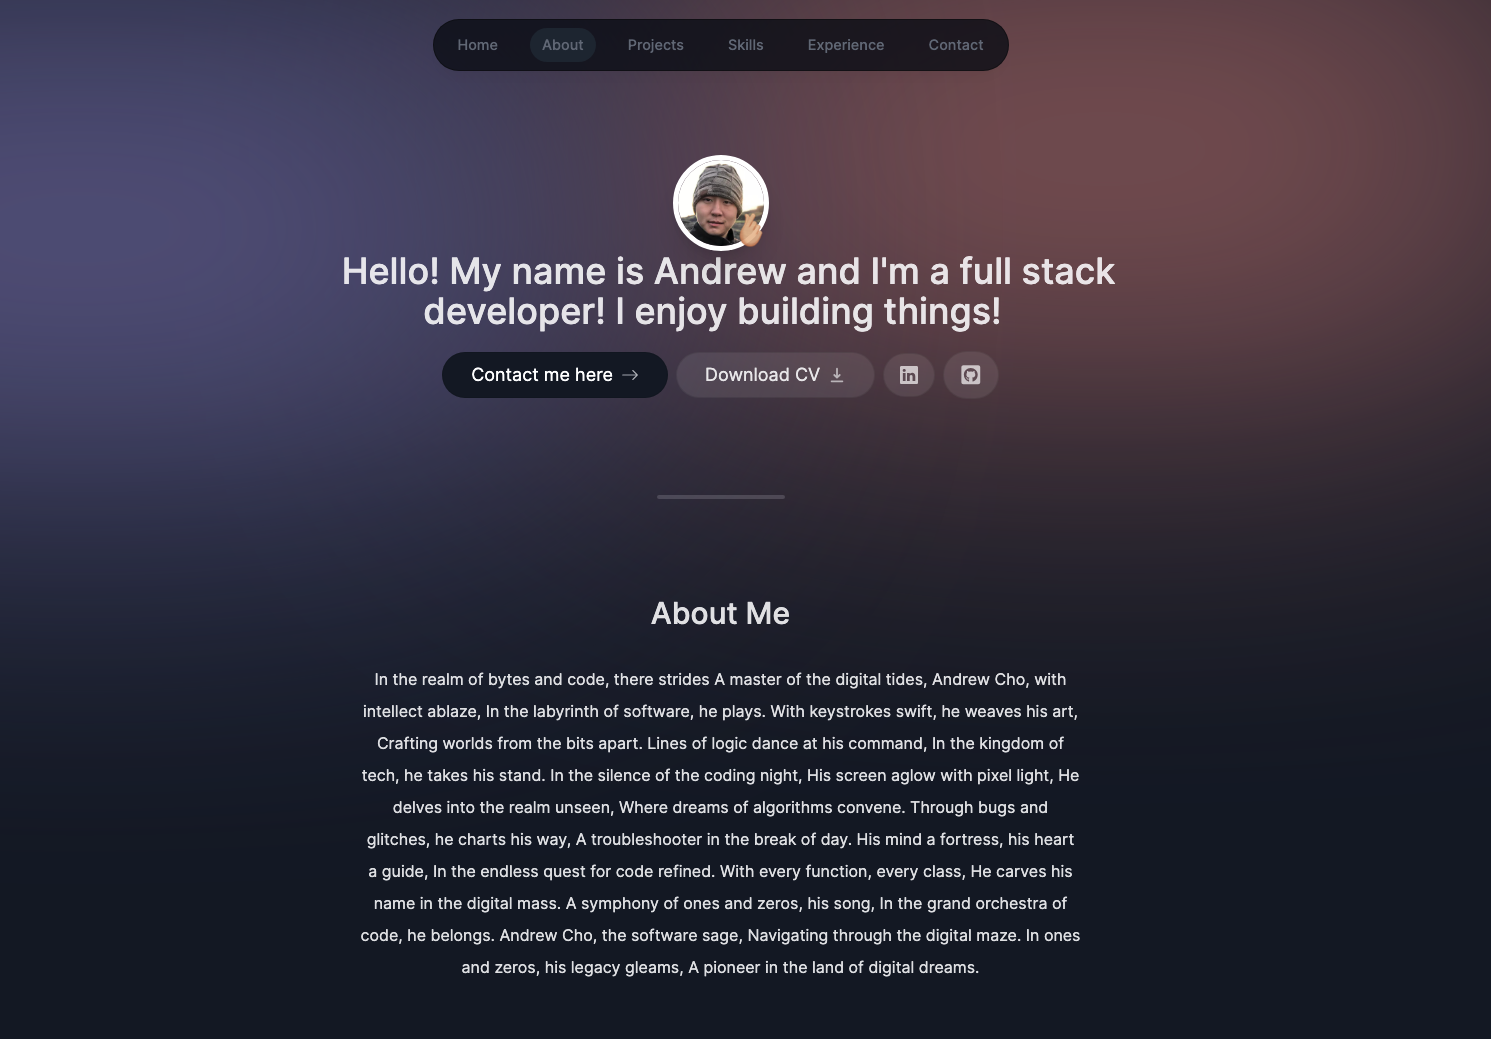
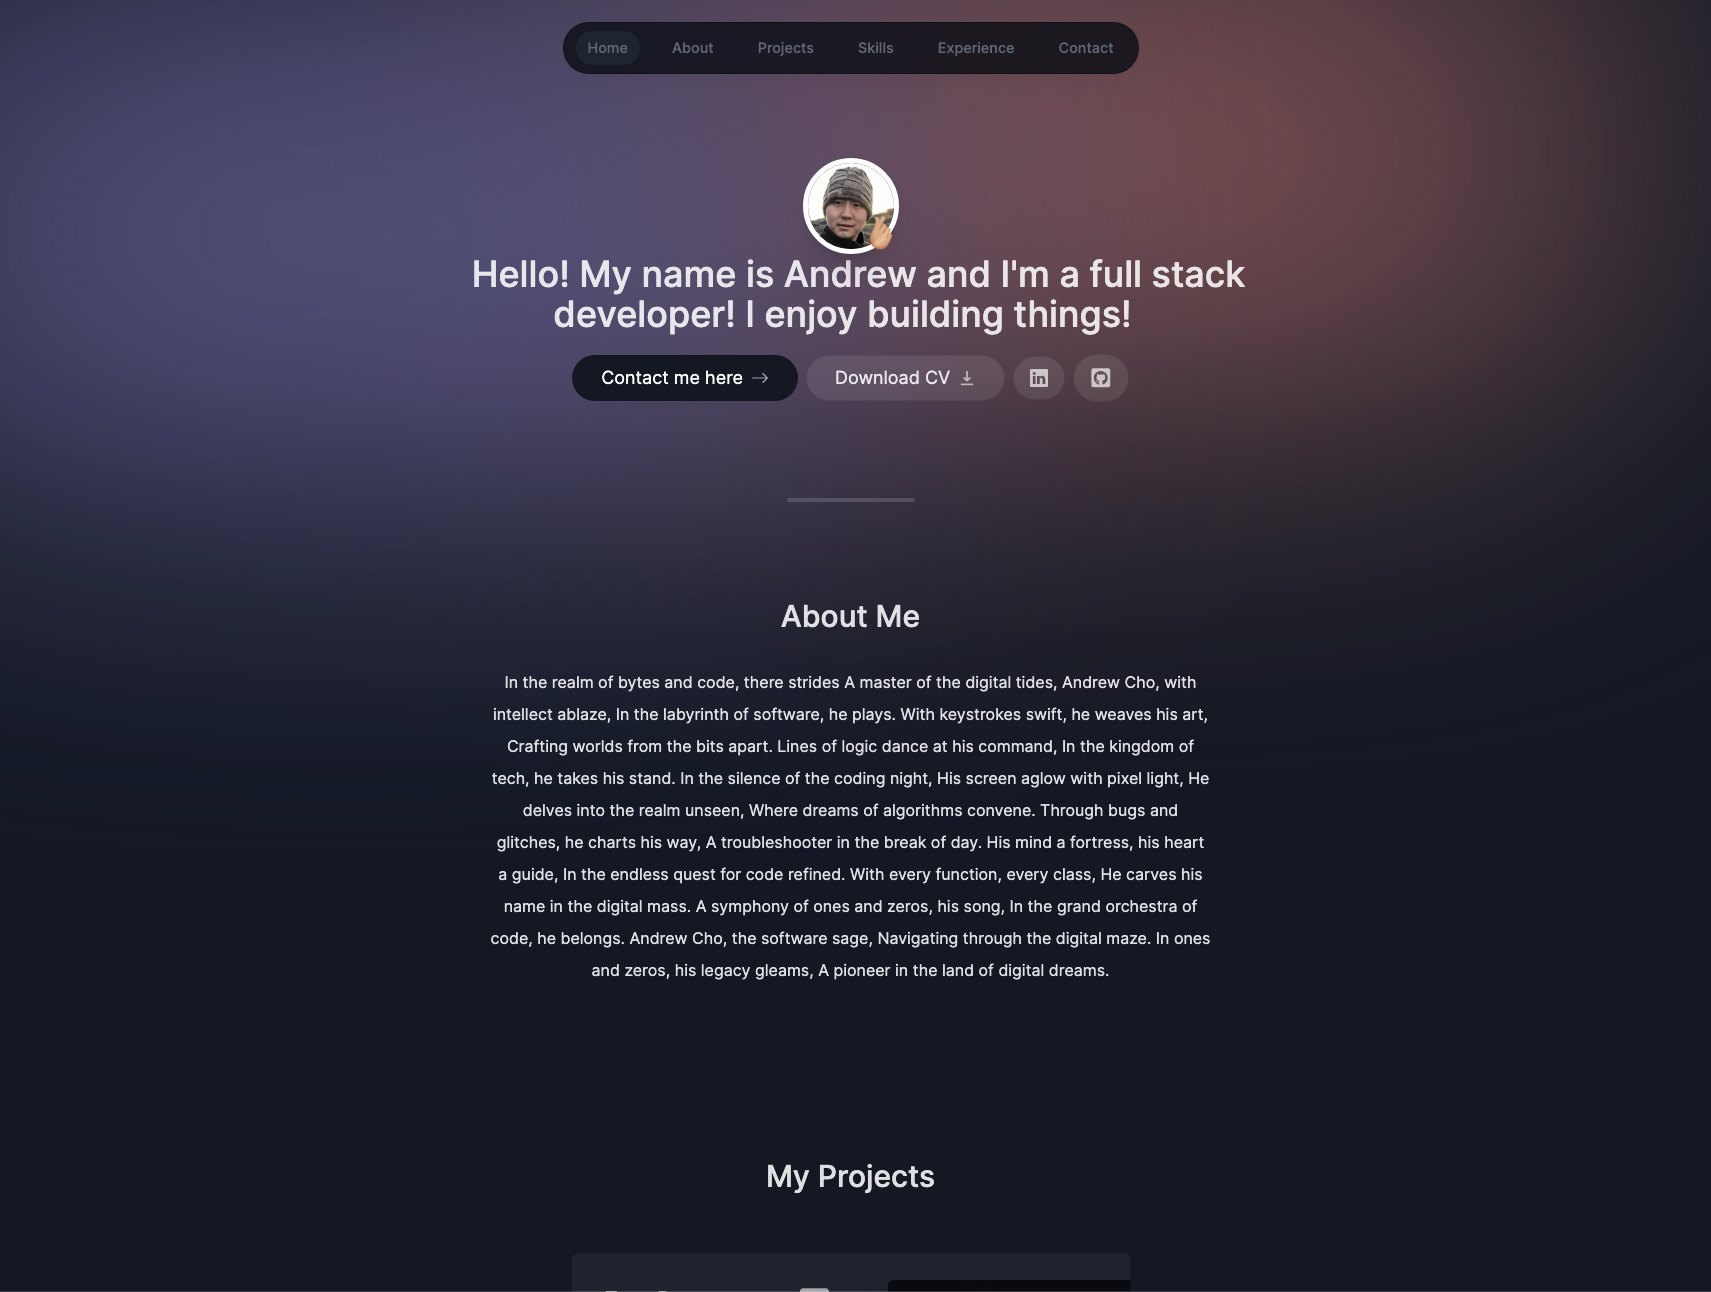
updated project pics

diff --git a/lib/data.ts b/lib/data.ts
@@ -8,7 +8,7 @@ import { MdWork } from "react-icons/md";
 import { LuGraduationCap } from "react-icons/lu";
 import sampleProject from "@/public/sample_project.jpeg";
 import personal_web_pic from "@/public/personal_web.png";
-import type_better_pic from "@/public/type_better.png";
+import type_better_2 from "@/public/tb2.png";
 //come back and add more types later
 
 type LinkType = {
@@ -84,7 +84,7 @@ export const projectsData = [
     description:
       "A web based typing game that's designed to improve your typing agility.",
     tags: [ "Typescript", "React", "Next.js", "Firebase", "Python", "Flask", "Firebase", "Tailwind" ],
-    imageUrl: type_better_pic,
+    imageUrl: type_better_2,
     projectLink: 'https://github.com/cisdell/type_better',
   },
   // {
